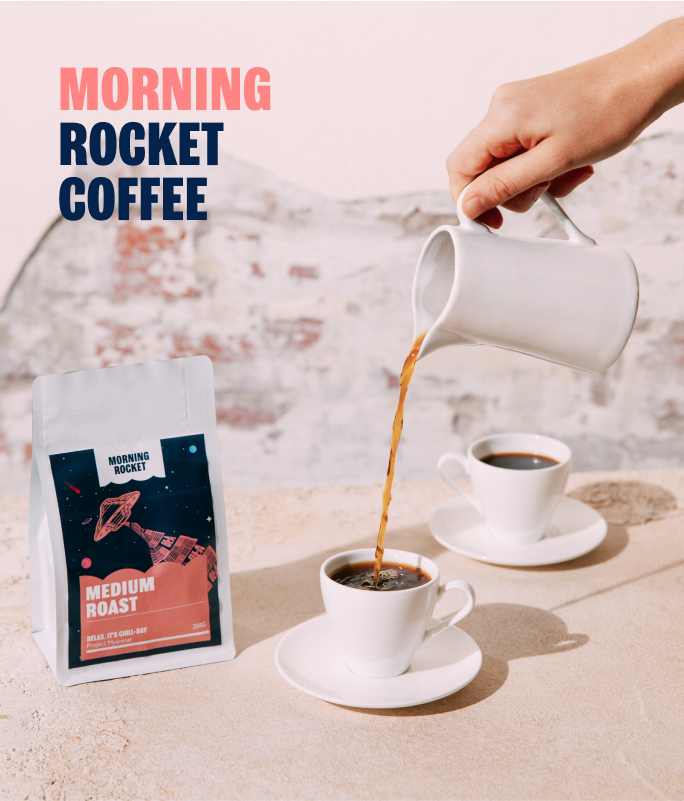
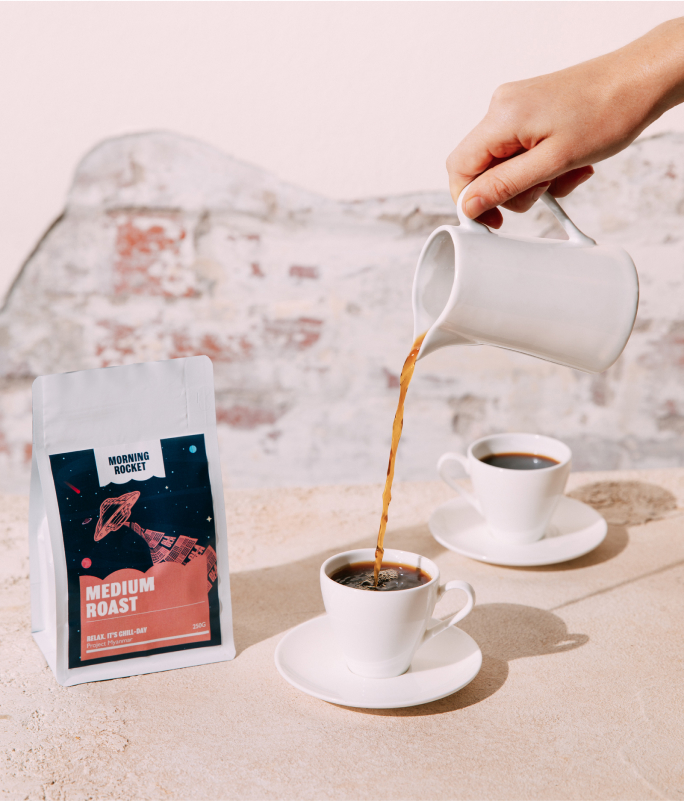
added style features section

Changed region(s): [[0.0614, 0.0624, 0.3991, 0.2809]]

diff --git a/app/scss/blocks/_features.scss b/app/scss/blocks/_features.scss
@@ -1,38 +1,164 @@
 .features {
+ padding-top: 80px;
  // .features__top
  &__top {
+  margin: 0 auto;
+  max-width: 590px;
+  width: 100%;
+  margin-bottom: 70px;
+  text-align: center;
  }
  // .features__title
  &__title {
+  margin-bottom: 22px;
+  span {
+   color: $secondaryColor;;
+  }
  }
  // .features__text
  &__text {
+  font-size: 24px;
+  line-height: 1.1;
+  span {
+   font-weight: 700;
+  }
  }
  // .features__inner
  &__inner {
+  display: flex;
+  flex-direction: row-reverse;
+  @media (max-width: 991px) {
+   flex-direction: column-reverse;
+  }
  }
  // .features__image
  &__image {
+  position: relative;
+  flex: 0 0 calc(((100vw - 20px) *0.4) + 10px);
+  transform: translate(100%,0);
+  position: relative;
+  padding: 0 0 40% 0;
+  img {
+   position: absolute;
+   object-fit: cover;
+   left: 0;
+   top: 0;
+   width: 100%;
+   height: 100%;
+  }
+  @media (max-width: 991px) {
+   flex: 100%;
+   transform: translate(0%,0);
+   padding: 0 0 100% 0;
+  }
+ }
+ // .features__title-img
+ &__title-img {
+  @include pseudo;
+  font-weight: 900;
+  font-size: 42px;
+  line-height: 1;
+  max-width: 230px;
+  width: 100%;
+  text-transform: uppercase;
+  left: 10%;
+  top: 10%;
+  span {
+   color: $secondaryColor;
+  }
  }
  // .features__content
  &__content {
+  flex: 0 0 100%;
  }
  // .features__body
  &__body {
+  width: 40%;
+  margin-left: auto;
+  padding-bottom: 20px;
+  @media (max-width: 991px) {
+   width: 100%;
+   text-align: center;
+  }
  }
  // .features__items
  &__items {
+  display: flex;
+  flex-direction: column;
  }
  // .features__item
  &__item {
+  padding-bottom: 30px;
+  &:not(:last-child) {
+   border-bottom: 1px solid #F4E8DB;
+  }
+  &:not(:first-child) {
+   padding-top: 30px;
+   @media (max-width: 991px) {
+    padding-top: 120px;
+   }
+  }
+  &:first-child {
+   position: relative;
+   &::before {
+    @include pseudo;
+    @include background(url("../../images/icons/features-1.svg"));
+    width: 36px;
+    height: 61px;
+    left: -20%;
+    top: 0;
+    @media (max-width: 991px) {
+     left: 50%;
+     top: 10%; 
+     transform: translateX(-50%);
+    }
+   }
+   @media (max-width: 991px) {
+    padding-top: 120px;
+   }
+  }
+  &:nth-child(2) {
+   position: relative;
+   &::before {
+    @include pseudo;
+    @include background(url("../../images/icons/features-2.svg"));
+    width: 61px;
+    height: 61px;
+    left: -20%;
+    top: 15%;
+    @media (max-width: 991px) {
+     left: 50%;
+     top: 10%; 
+     transform: translateX(-50%);
+    }
+   }
+  }
+  &:last-child {
+   position: relative;
+   &::before {
+    @include pseudo;
+    @include background(url("../../images/icons/features-3.svg"));
+    width: 52px;
+    height: 52px;
+    left: -20%;
+    top: 15%;
+    @media (max-width: 991px) {
+     left: 50%;
+     top: 10%; 
+     transform: translateX(-50%);
+    }
+   }
+  }
  }
  // .features__name
  &__name {
- }
- // .features__descr
- &__descr {
- }
- // .features__link
- &__link {
+  font-weight: 900;
+  font-size: 30px;
+  line-height: 1;
+  text-transform: uppercase;
+  margin-bottom: 20px;
+  @media (max-width: 768px) {
+   font-size: 24px;
+  }
  }
 }

diff --git a/app/index.html b/app/index.html
@@ -129,17 +129,14 @@
    <section class="features">
     <div class="features__top">
      <div class="container">
-      <h2 class="features__title">It’s Time for <span>Liftoff</span></h2>
+      <h2 class="features__title title">It’s Time for <span>Liftoff</span></h2>
       <p class="features__text">
        We have Mars on our horizons and Myanmar in our hearts.
-       Morning Rocket Coffee in 3... 2... 1...
+       <span>Morning Rocket Coffee in 3... 2... 1...</span>
       </p>
      </div>
     </div>
     <div class="features__inner">
-     <div class="features__image">
-      <img src="images/features/image-1.jpg" alt="coffee">
-     </div>
      <div class="features__content">
       <div class="container">
        <div class="features__body">
@@ -169,6 +166,10 @@
         <a class="features__link btn" href="#">Shop Now</a>
        </div>
       </div>
+     </div>
+     <div class="features__image">
+      <img src="images/features/image-1.jpg" alt="coffee">
+      <h2 class="features__title-img"><span>Morning</span> Rocket Coffee</h2>
      </div>
     </div>
    </section>

diff --git a/app/scss/base/_global.scss b/app/scss/base/_global.scss
@@ -50,7 +50,7 @@ body {
  color: $mainColor;
  text-transform: uppercase;
  @media (max-width: 490px) {
-  font-size: 32px;
+  font-size: 32 px;
  }
 }
 
